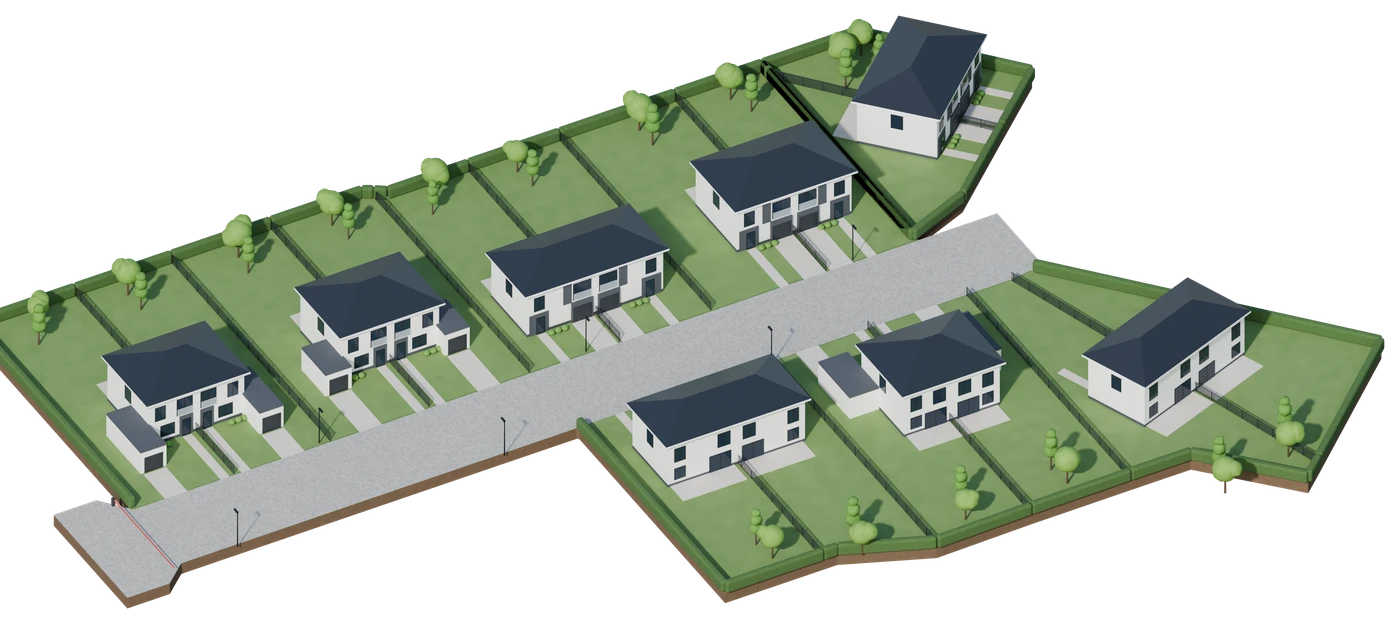
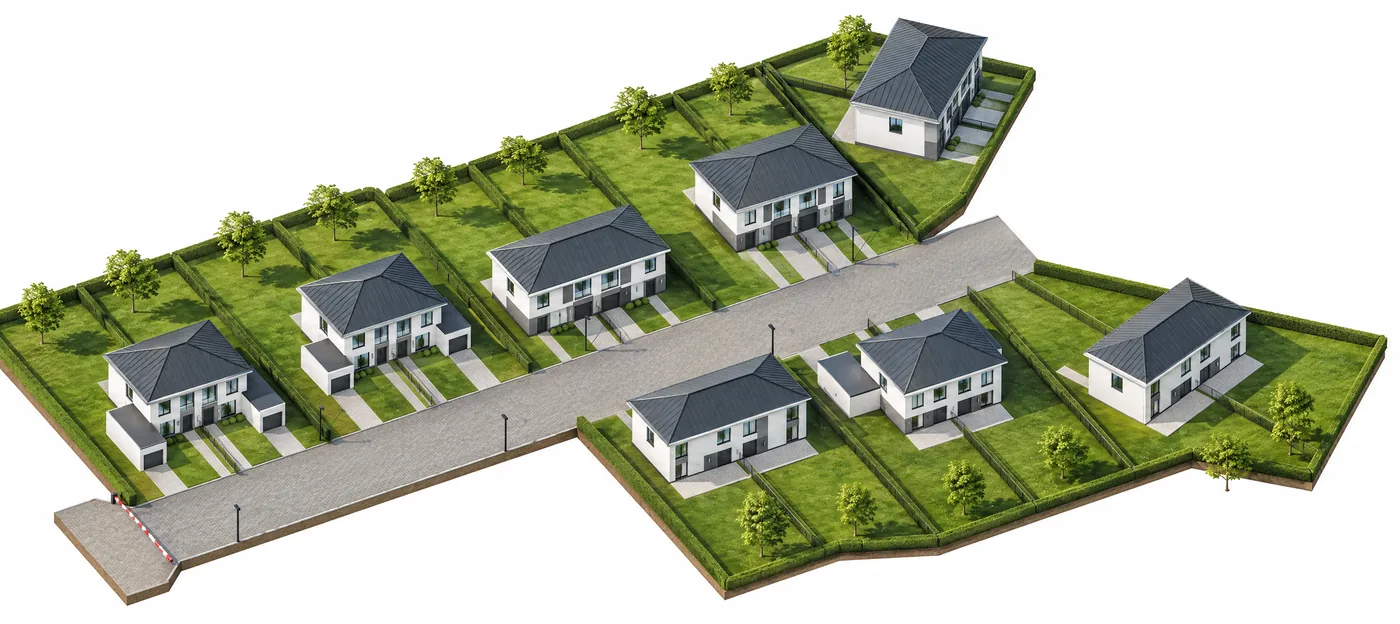
Makieta osiedla w wyższej jakości

diff --git a/index.html b/index.html
@@ -115,7 +115,7 @@
       </div>
       <div class="nawigator__rys" id="nawigator-rys">
         <div class="nawigator__plotno">
-          <img src="img/makieta-2400.webp" srcset="img/makieta-1400.webp 1400w, img/makieta-2400.webp 2400w" sizes="(max-width: 1440px) 100vw, 1320px" width="2400" height="1070" alt="Makieta 3D pierwszego etapu osiedla według planu zagospodarowania: droga ze szlabanem, 5 bliźniaków po jednej stronie i 3 po drugiej" loading="lazy">
+          <img src="img/makieta-2400.webp" srcset="img/makieta-1400.webp 1400w, img/makieta-2400.webp 2400w" sizes="(max-width: 600px) 980px, (max-width: 1440px) 100vw, 1320px" width="2400" height="1070" alt="Makieta 3D pierwszego etapu osiedla według planu zagospodarowania: droga ze szlabanem, 5 bliźniaków po jednej stronie i 3 po drugiej" loading="lazy">
           <svg viewBox="0 0 3689 1645" id="nav-svg" role="group" aria-label="Domy na makiecie, wybierz dom"></svg>
         </div>
       </div>
